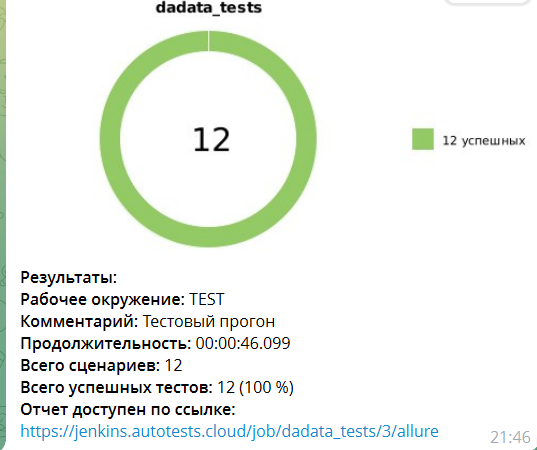
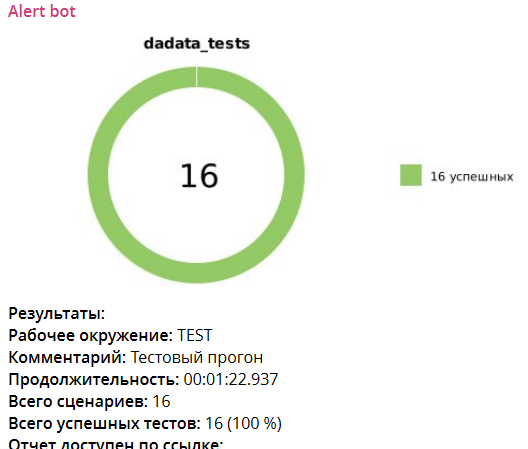
attempting to connect TestOps

diff --git a/README.md b/README.md
@@ -12,6 +12,7 @@
 - [Запуск тестов из терминала](#запуск-тестов-из-терминала)
 - [Сборка в Jenkins](#сборка-в-jenkins)
 - [Allure Report](#allure-report)
+- [Allure TestOps](#allure-testops)
 - [Уведомление в Telegram](#уведомление-в-telegram)
 
 <a id="стек"></a>
@@ -31,9 +32,7 @@
 
 В проекте автотесты написаны на **Java**. Сборка — **Gradle**, тесты — **JUnit 5**.
 
-Для UI используется **Selenide**, для API — **Rest Assured**. Отчёты формируются в **Allure Report**. Проверки в тестах — через **AssertJ**, тестовые данные генерируются **DataFaker**.
-
-Интеграция с **Allure TestOps** запланирована следующим этапом развития проекта.
+Для UI используется **Selenide**, для API — **Rest Assured**. Отчёты формируются в **Allure Report** и передаются в **Allure TestOps**. Проверки в тестах — через **AssertJ**, тестовые данные генерируются **DataFaker**.
 
 <a id="реализованные-проверки"></a>
 
@@ -119,7 +118,7 @@ dadata.api.secret=...
 
 <a id="allure-report"></a>
 
-## [📊 Пример Allure-отчёта](https://jenkins.autotests.cloud/job/dadata_tests/3/allure/)
+## [📊 Пример Allure-отчёта](https://jenkins.autotests.cloud/job/dadata_tests/4/allure/)
 
 Собрать отчёт:
 
@@ -162,6 +161,27 @@ gradlew.bat allureServe
 <p align="center">
 <img src="images/screenshots/allure_ui_test.png" alt="Allure UI" width="850"/>
 </p>
+
+<a id="allure-testops"></a>
+
+## Allure TestOps
+
+Для интеграции с Allure TestOps используется `allurectl`: после запуска тестов он отправляет результаты из `build/allure-results` в проект TestOps.
+
+В Jenkins нужно добавить переменные окружения:
+
+```
+ALLURE_ENDPOINT=https://allure.autotests.cloud/
+ALLURE_PROJECT_ID=ID_проекта
+ALLURE_TOKEN=токен
+ALLURE_RESULTS=build/allure-results
+```
+
+Команда запуска в Jenkins:
+
+```
+allurectl watch -- gradlew.bat clean test
+```
 
 <a id="уведомление-в-telegram"></a>
 